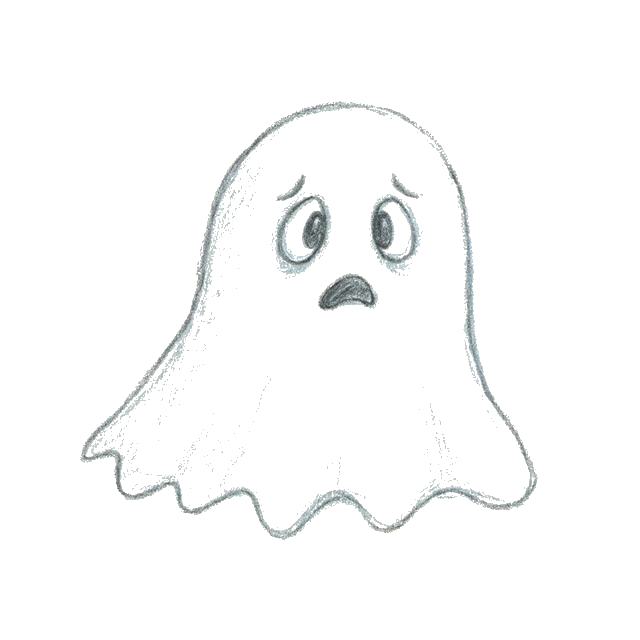
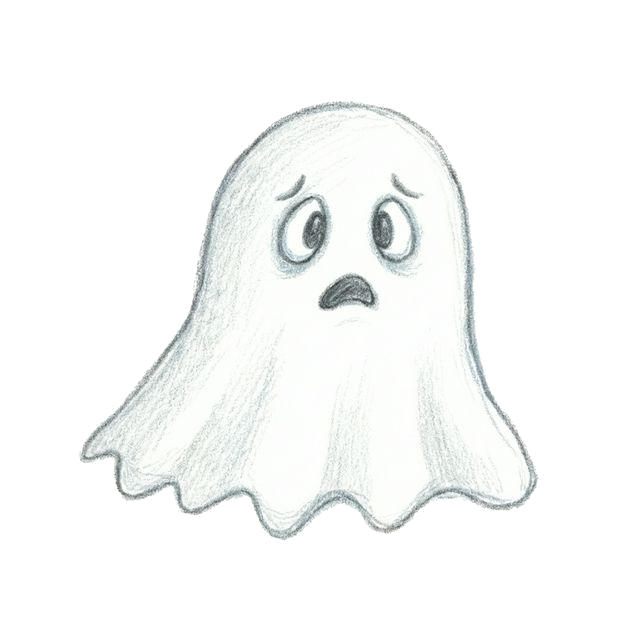
fix: remove white background from `ghost_isolated.png` using a new flood fill script.

diff --git a/fix_ghost.py b/fix_ghost.py
@@ -1,0 +1,40 @@
+from PIL import Image
+import shutil
+
+def remove_white_bg_floodfill(img_path):
+    img = Image.open(img_path).convert("RGBA")
+    width, height = img.size
+    pixels = img.load()
+    
+    def is_white(color):
+        return color[0] > 240 and color[1] > 240 and color[2] > 240
+        
+    stack = [(0, 0), (width-1, 0), (0, height-1), (width-1, height-1)]
+    visited = set()
+    
+    while stack:
+        x, y = stack.pop()
+        if (x, y) in visited: continue
+        if x < 0 or x >= width or y < 0 or y >= height: continue
+        visited.add((x, y))
+        
+        current_pixel = pixels[x, y]
+        if is_white(current_pixel):
+            pixels[x, y] = (255, 255, 255, 0)
+            stack.extend([(x+1, y), (x-1, y), (x, y+1), (x, y-1)])
+
+    for x in range(width):
+        for y in range(height):
+            if (x, y) not in visited:
+                r, g, b, a = pixels[x, y]
+                if a != 0: 
+                    pixels[x, y] = (r, g, b, 255)
+
+    img.save(img_path, "PNG")
+
+try:
+    shutil.copy("/Users/pbabreu/.gemini/antigravity/brain/43f1d9e2-082b-4414-a33b-6cb056040248/ghost_isolated_1771628728485.png", "/Users/pbabreu/saudeabrincar-antigravity/assets/ghost_isolated.png")
+    remove_white_bg_floodfill("/Users/pbabreu/saudeabrincar-antigravity/assets/ghost_isolated.png")
+    print("Successfully restored ghost!")
+except Exception as e:
+    print(f"Error: {e}")
